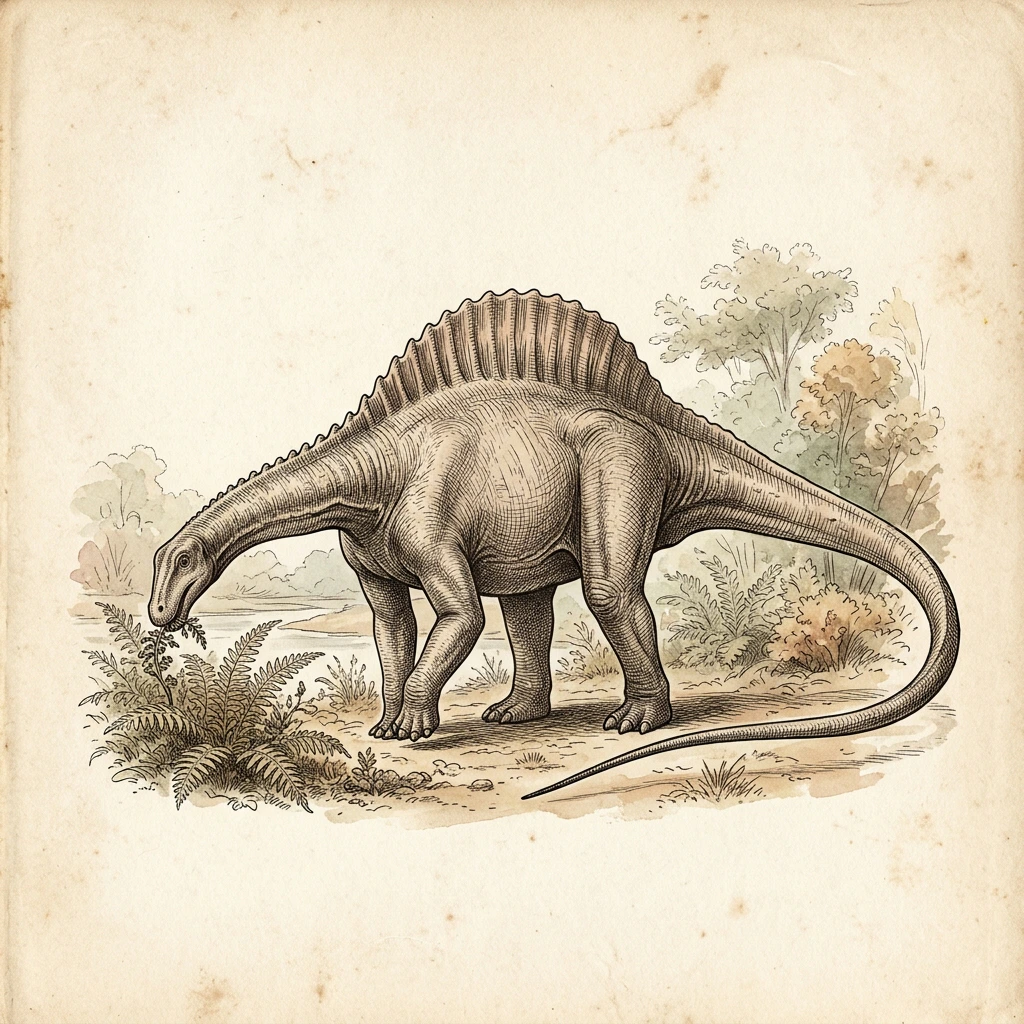
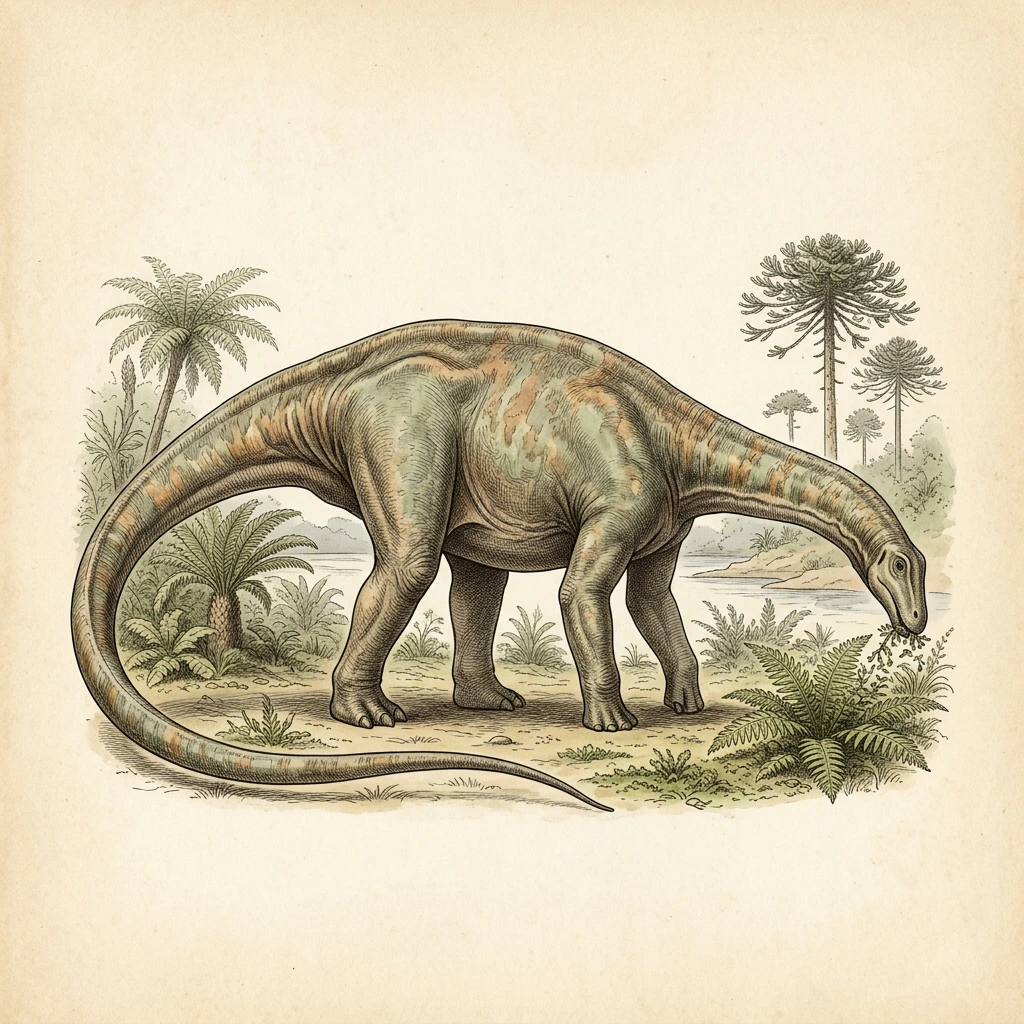
fix(limaysaurus): tone down dorsal spines to natural low ridge on main and skeletal assets

diff --git a/src/content/dinosaurs/limaysaurus.md b/src/content/dinosaurs/limaysaurus.md
@@ -14,19 +14,19 @@ length: "15.0m"
 weight: "7.0t"
 image: "images/limaysaurus.webp"
 group: "竜脚下目（レバッキサウルス科）"
-description: "白亜紀前期末〜後期初頭の南米アルゼンチンに生息した、背中に発達した神経棘の帆を持つレバッキサウルス科竜脚類。1995年にホセ・ボナパルテ博士の指導下で発掘・記載された。ディプロドクス上科に属しながらティタノサウルス類全盛期の南米で共存し、低い位置の植物を効率的に食む独自のニッチを確立していた。"
+description: "白亜紀前期末〜後期初頭の南米アルゼンチンに生息した、背中に沿って発達した神経棘の稜線・肉質コブを持つレバッキサウルス科竜脚類。1995年にホセ・ボナパルテ博士の指導下で発掘・記載された。ディプロドクス上科に属しながらティタノサウルス類全盛期の南米で共存し、低い位置の植物を効率的に食む独自のニッチを確立していた。"
 bioTraits:
-  - trait: "伸長した背部神経棘による帆・コブ構造"
+  - trait: "発達した背部神経棘による稜線・コブ構造"
     value: "レバッキサウルス科の象徴的形態"
-    detail: "胴椎から仙椎にかけて高く伸びる神経棘が皮膜の帆や脂肪性のコブを形成し、体温調節や視覚的誇示に機能"
+    detail: "胴椎から仙椎にかけて伸びる神経棘が筋肉と脂肪組織に富んだなだらかな背中の稜線を形成し、力学的支持や体温調節に機能"
   - trait: "ディプロドクス上科特有の平坦な吻部"
     value: "低層植生の効率的刈り取り"
     detail: "幅広く角ばった口先と前方に並んだ歯列により、芝刈り機のように地表のシダや草本を高速で摂取"
 cyberMetadata:
-  bottomGap: 306
+  bottomGap: 337
   realHeight: 3.8
-  realLength: 15
-  contentHeightPx: 239
+  realLength: 15.0
+  contentHeightPx: 243
   sourceRes: 1024
   dinoLeft: "0%"
   refRight: "8%"
@@ -45,9 +45,9 @@ cyberMetadata:
 
 四肢は比較的細身で軽快であり、前肢は後肢の約7割の長さでした。これにより背中は前方に向かってやや傾斜し、頭部を自然に地面近くへと近づける姿勢が基本となっていました。首は適度な長さを保ち、尾はディプロドクス科と同様に後方へと細長く伸びる鞭状の構造を持っていました。骨格全体には気嚢システムによる軽量化が極限まで施されており、7トンの体重を支えつつ優れた俊敏性と熱放散性を発揮していました。
 
-### 伸長した神経棘が支える背中の帆と肉質コブ：体温調節・ディスプレイ・筋肉支持の機能
+### 発達した神経棘が支える背中の稜線と肉質コブ：体温調節・力学的支持の機能
 
-リマイサウルスの骨格解剖学において最も目を引く特徴は、胴椎から腰（仙椎）、尾の基部にかけての神経棘（椎骨の背側突起）が著しく上方に伸長している点です。これらの神経棘は板状に広がり、生前は皮膚の帆（セイル）あるいは筋肉と脂肪組織に富んだ肉質の「コブ（ハンプ）」を形成していたと推測されています。
+リマイサウルスの骨格解剖学において最も目を引く特徴は、胴椎から腰（仙椎）、尾の基部にかけての神経棘（椎骨の背側突起）が上方に発達している点です。これらの神経棘は板状に広がり、生前はスピノサウルスのような巨大な帆ではなく、筋肉と脂肪組織に富んだなだらかな背中の稜線や肉質の「コブ（ハンプ）」を形成していたと考えられています。
 
 この背部構造の機能については複数の学説が提唱されています。第一に、血管網を通じた効率的な熱交換を行う体温調節器官としての役割です。パタゴニアの乾燥した温暖気候において、日中の過熱を防ぎ夜間の体温低下を緩和するのに役立ちました。第二に、群れの中での個体識別や異性への求愛、捕食者に対する体躯の誇示（ディスプレイスクリーン）としての役割です。さらに、首と尾を水平に吊り下げる強大な腱や筋肉（棘上靭帯）を強固にアンカーする力学的支柱としても不可欠の機能を担っていました。
 

diff --git a/docs/tasks/archive.md b/docs/tasks/archive.md
@@ -42,6 +42,11 @@
     - **パイプライン（`process_cyber_asset.cjs`）での自動同期**: 骨格画像の後処理・透過生成時に、自動的に `cyberDrawnBounds.json` へ境界座標を追記・更新する機構を導入し、更新漏れの人的ミスを物理的に防止。
     - **プロジェクトルール（`AGENTS.md`）の改訂**: 骨格アセットにおける見切れ防止基準と `test:drawn-heights` 実行義務を明文化。
 
+- [x] **リマイサウルス（No.370）背部突起の古生物学的適正化（自然な稜線・コブへの刷新）** (2026/11/27)
+  - スピノサウルスのような過大に誇張された背中の巨大帆を廃止し、レバッキサウルス科として妥当な「筋肉と脂肪組織に富んだなだらかな背中の稜線・低い肉質コブ」へとメイン復元イラストおよびサイバー骨格側面図を再生成・刷新。
+  - 4ch透過WebP加工、自動接地ピクセル走査（`contentHeightPx: 243`, `bottomGap: 337`）により、シミュレータ上で15.03m（1:1完全同期）を再設定。
+  - 全424ページのビルド検証完了。
+
 - [x] **Tier 26 Part 1（No.366〜370：アグスティニア、クアエトサウルス、ルソティタン、チュアンジエサウルス、リマイサウルス）骨格アセット・比較パネル実装** (2026/11/27)
   - 全5頭の4ch透過サイバー骨格図（1:1正方形・Alpha=0・AIマーク消去）の自動接地スキャンおよび実寸キャリブレーション（`contentHeightPx`, `bottomGap`）を適用。
   - ルソティタン（全高11.0m）のキリン型超高頸立ち姿、アグスティニアの背部スパイク、チュアンジエサウルスの超長頸など、シミュレータおよび詳細ページ比較パネルでの美しい対峙レイアウト（`refRight: "8%"`、人間見切れゼロ）を完全実装。
